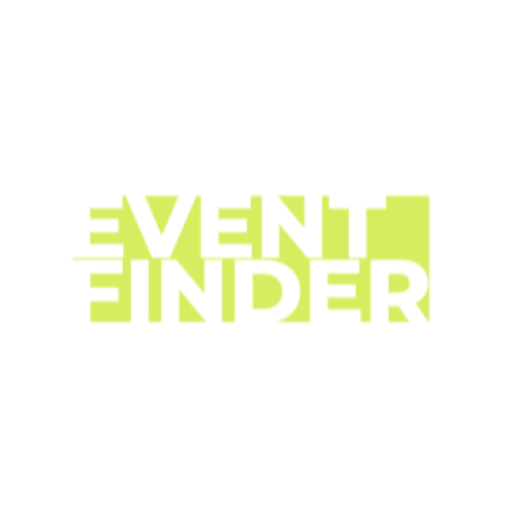
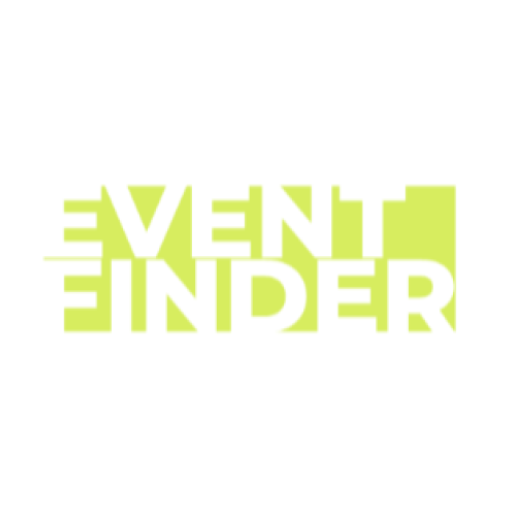
Launch screen done

Changed region(s): [[0.0938, 0.3438, 0.9062, 0.6562]]

diff --git a/app/src/main/java/com/example/eventfinder/MainActivity.java b/app/src/main/java/com/example/eventfinder/MainActivity.java
@@ -9,6 +9,7 @@ public class MainActivity extends AppCompatActivity {
     @Override
     protected void onCreate(Bundle savedInstanceState) {
         super.onCreate(savedInstanceState);
+        setTheme(R.style.Theme_EventFinder);
         setContentView(R.layout.activity_main);
     }
 }
